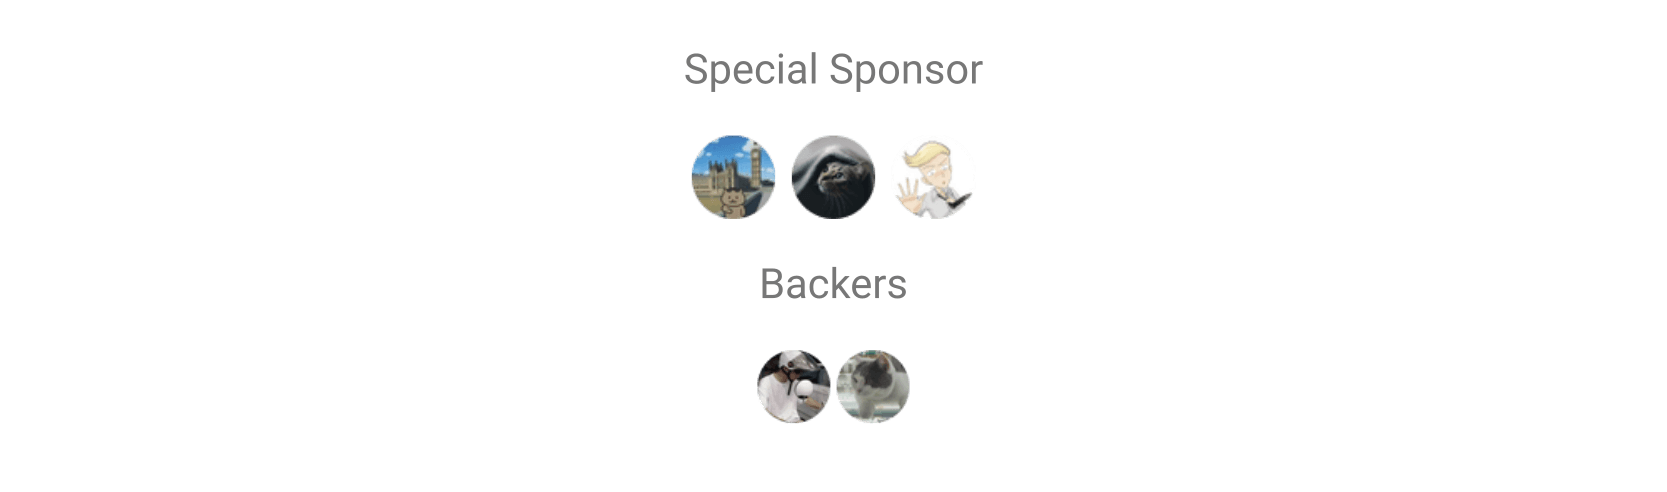
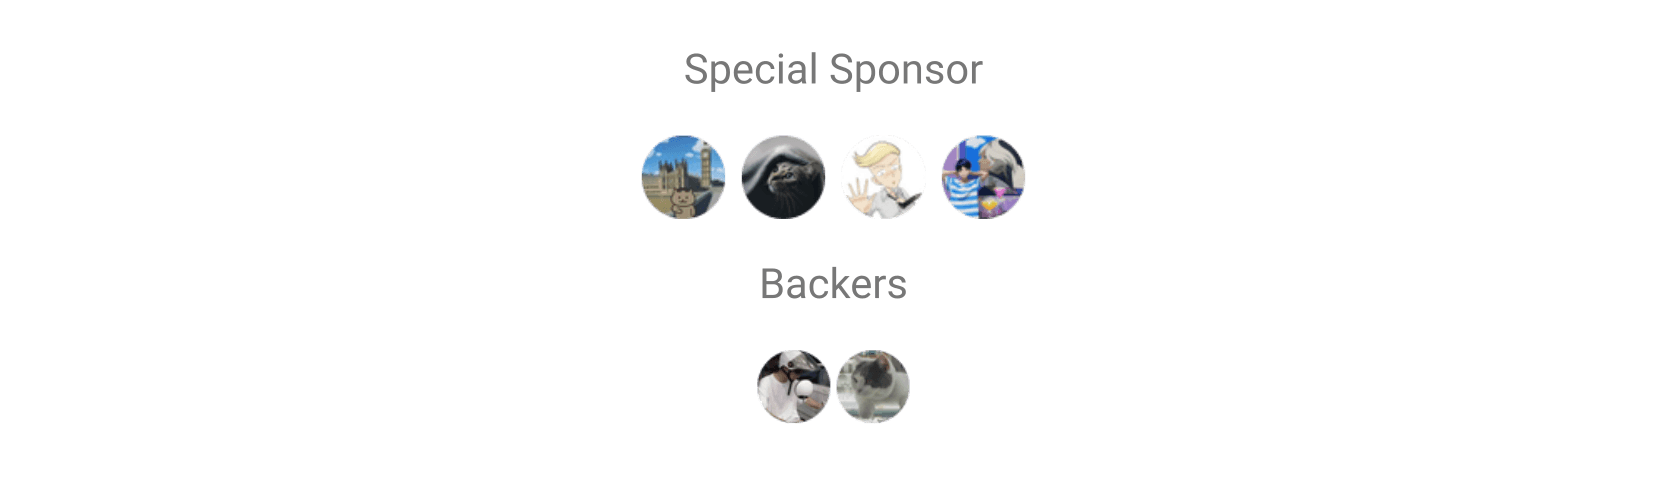
chore: update

Changed region(s): [[0.3743, 0.2744, 0.6239, 0.4573]]

diff --git a/specialSponsors.ts b/specialSponsors.ts
@@ -17,6 +17,14 @@ const specialSponsors: Sponsor[] = [
     linkUrl: 'https://github.com/qytayh',
     websiteUrl: 'https://github.com/qytayh',
   },
+  {
+    type: 'User',
+    login: 'chenQushai',
+    name: 'chenQushai',
+    avatarUrl: 'https://avatars.githubusercontent.com/u/45193230?v=4',
+    linkUrl: 'https://github.com/chenQushai',
+    websiteUrl: 'https://github.com/chenQushai',
+  },
 ]
 
 export const specialMonthlyDollars = 6
